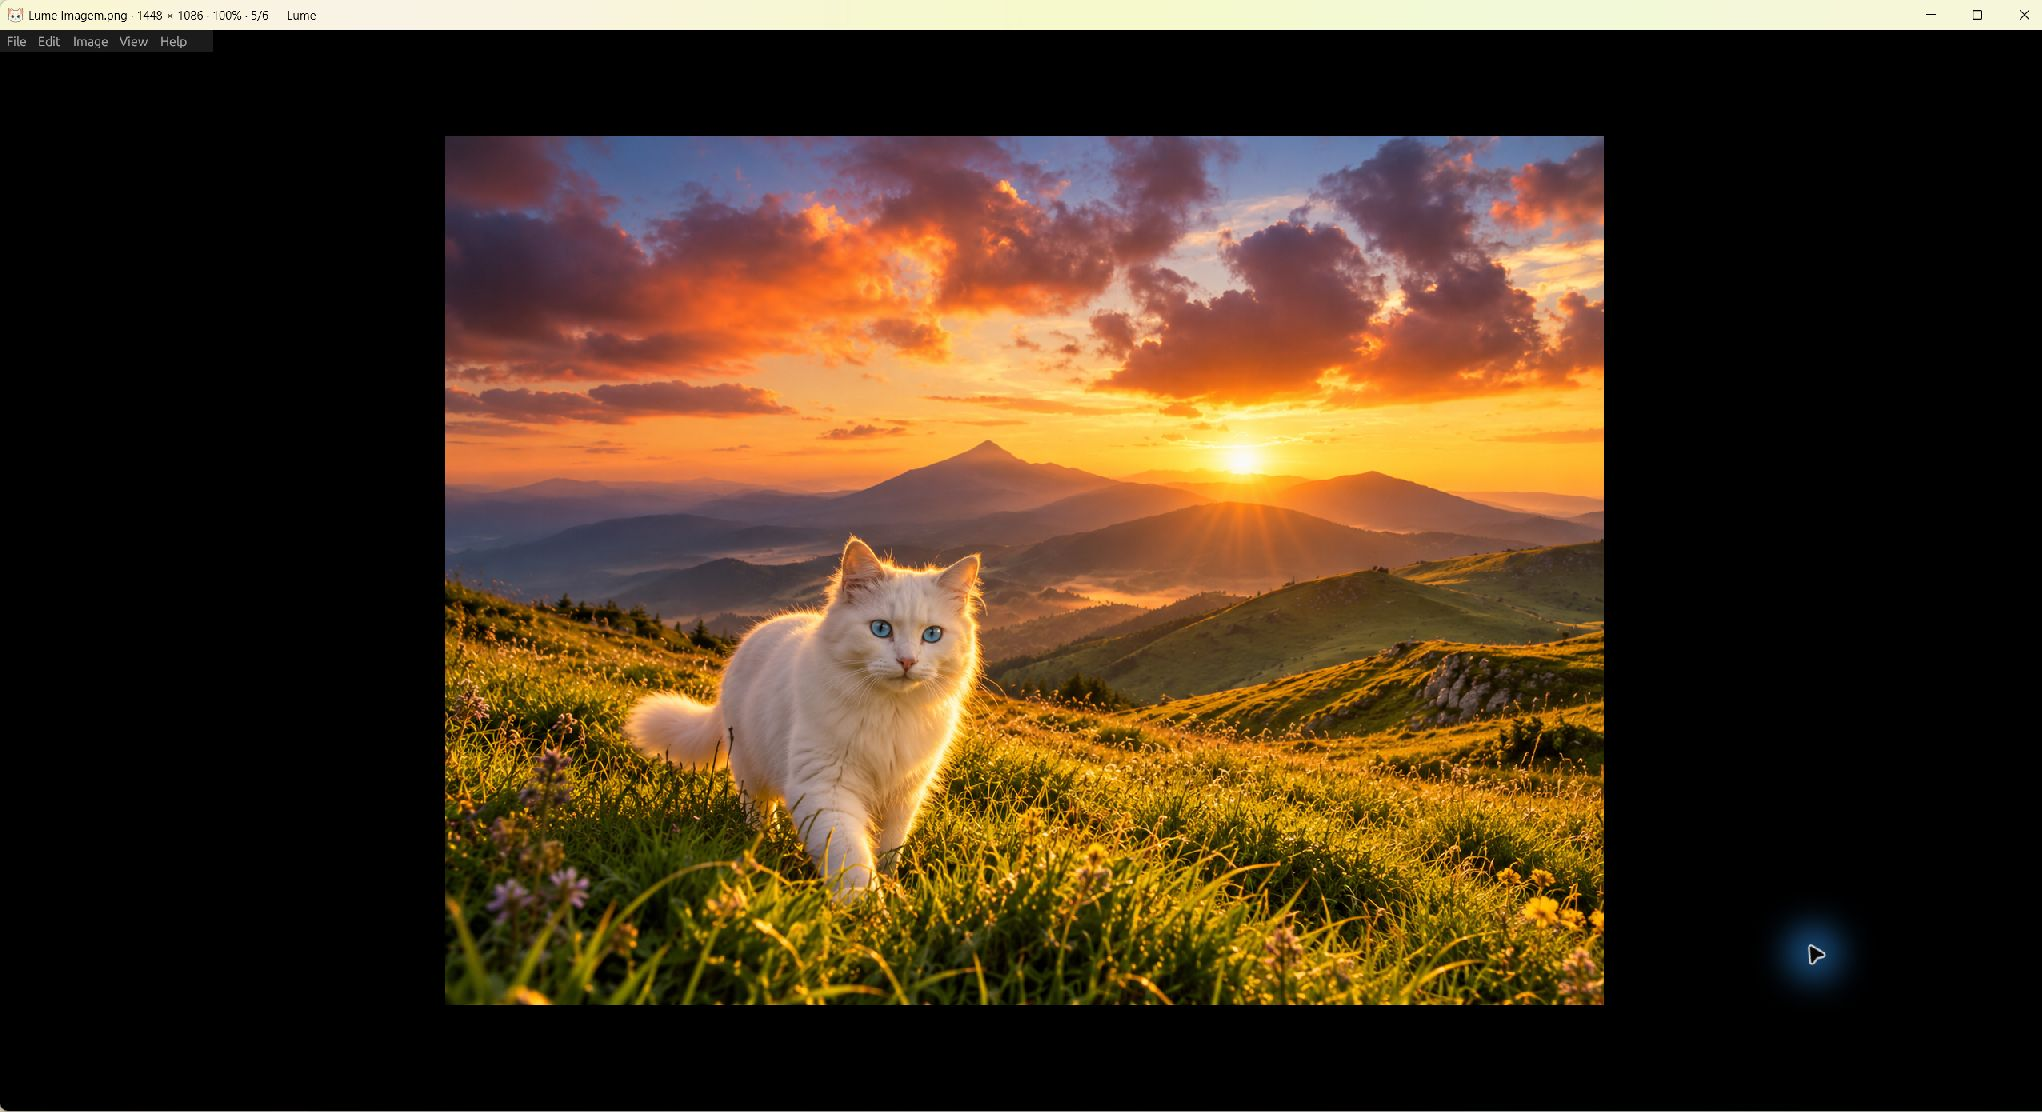
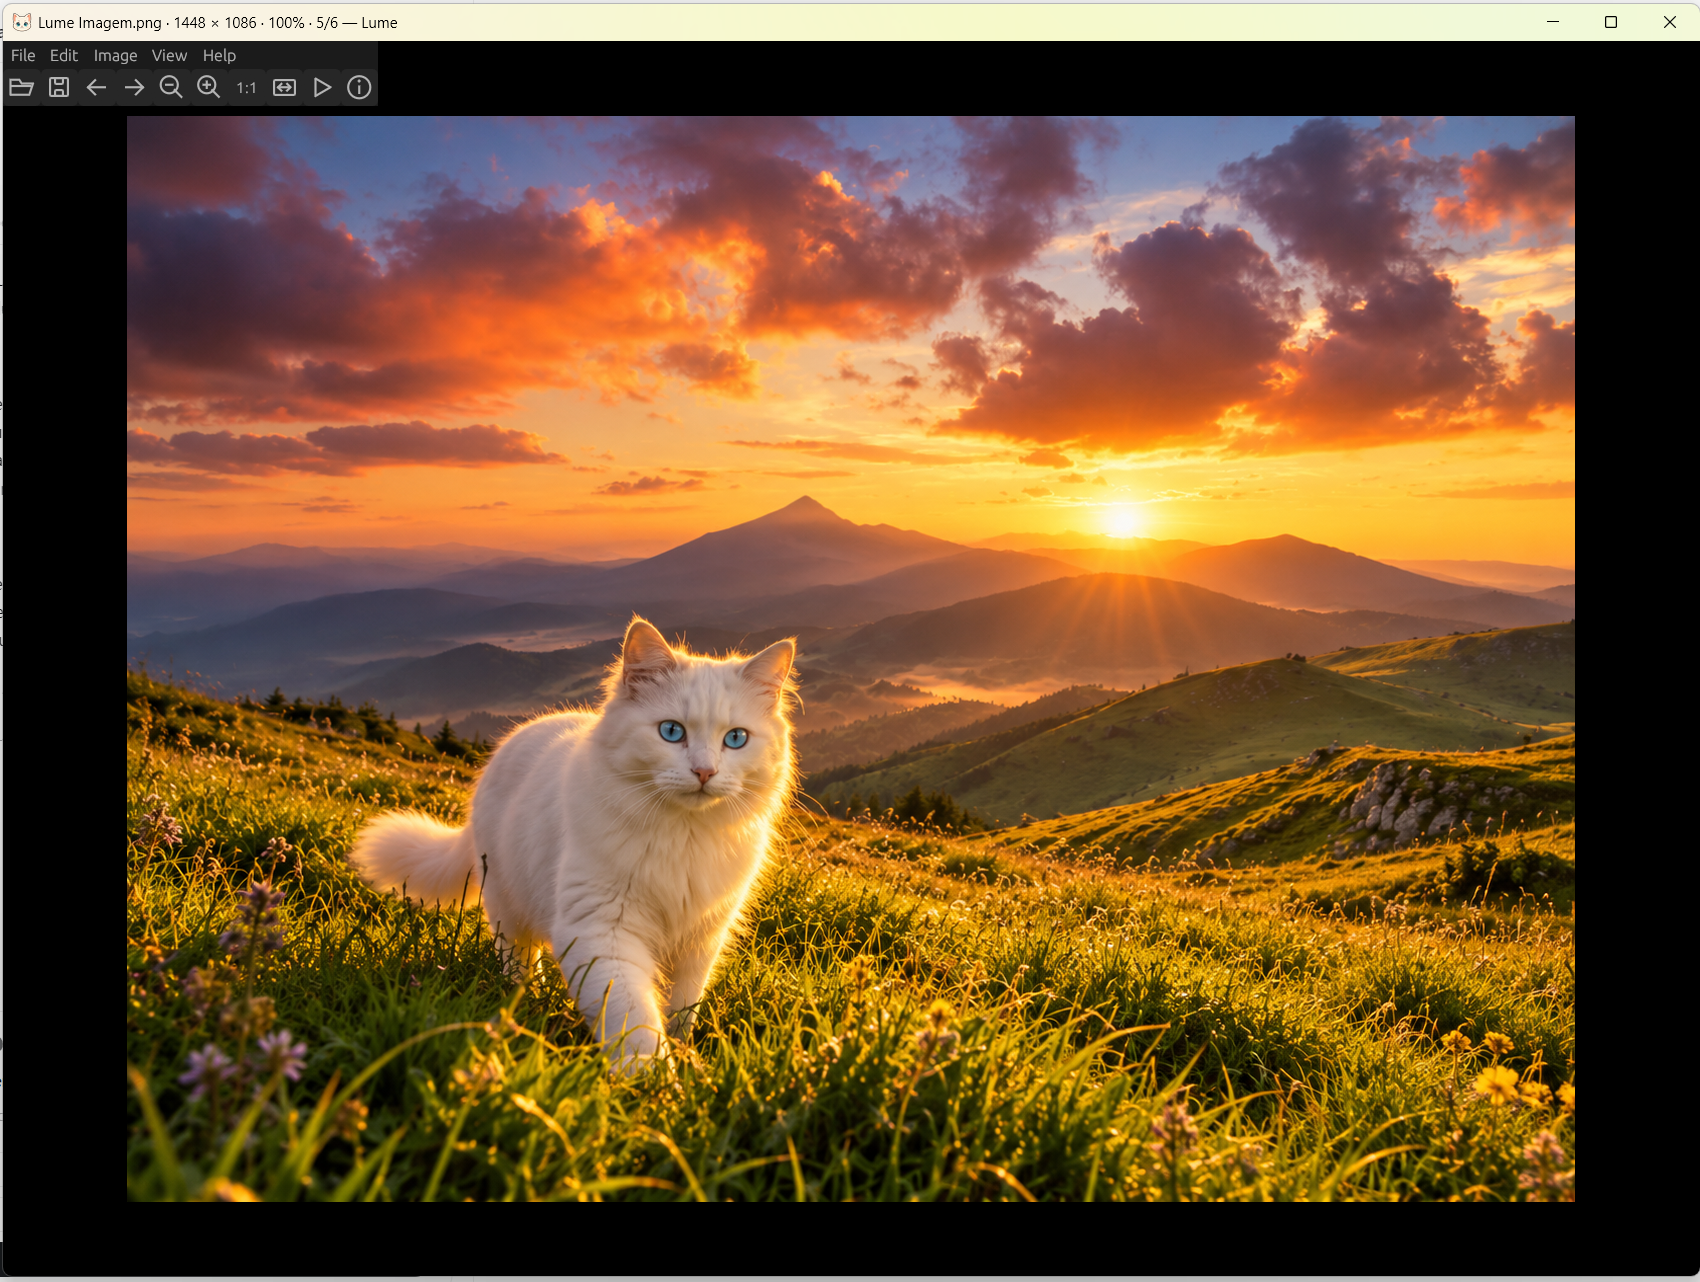
Release 0.26: default toolbar, native Windows printing and updated screenshot

diff --git a/src/main.rs b/src/main.rs
@@ -93,7 +93,7 @@ impl Default for Settings {
             webp_quality: 80,
             ratio: 3,
             slide_seconds: 4.0,
-            show_toolbar: false,
+            show_toolbar: true,
             show_status_bar: false,
             auto_restart: false,
             menu_transparency: 0,
@@ -153,6 +153,7 @@ enum Dialog {
 enum Message {
     Book(backend::Result<Arc<comic::Book>>),
     Export(backend::Result<()>),
+    Print(backend::Result<tempfile::TempPath>),
     Saved(PathBuf, backend::Result<()>),
     Information(backend::Result<Vec<(String, String)>>),
     Lossless(backend::Result<PathBuf>),
@@ -162,6 +163,7 @@ enum Message {
 }
 
 struct App {
+    print_snapshots: Vec<tempfile::TempPath>,
     pixel_ratio: f32,
     tiles: tiles::Renderer,
     settings: Settings,
@@ -233,6 +235,7 @@ impl App {
         });
         let (tx, rx) = mpsc::channel();
         let mut app = Self {
+            print_snapshots: Vec::new(),
             pixel_ratio: cc.egui_ctx.pixels_per_point(),
             tiles: tiles::Renderer::default(),
             fit: settings.fit,
@@ -544,6 +547,15 @@ impl App {
                         Err(e) => self.fail(e),
                     }
                 }
+                Message::Print(result) => match result {
+                    Ok(snapshot) => {
+                        if let Err(e) = backend::open_print_dialog(&snapshot) {
+                            self.fail(e);
+                        }
+                        self.print_snapshots.push(snapshot);
+                    }
+                    Err(e) => self.fail(e),
+                },
                 Message::Export(r) => {
                     self.busy = false;
                     match r {
@@ -622,6 +634,18 @@ impl App {
         self.index = model::next_index(self.index, delta, self.files.len());
         self.request_load(self.files[self.index].clone());
         self.last_slide = Instant::now();
+    }
+    fn print_image(&mut self, ctx: &egui::Context) {
+        let Some(pixels) = self.image.clone() else {
+            return;
+        };
+        let tx = self.tx.clone();
+        let ctx = ctx.clone();
+        std::thread::spawn(move || {
+            let result = backend::print_image(&pixels);
+            let _ = tx.send(Message::Print(result));
+            ctx.request_repaint();
+        });
     }
     fn choose_open(&mut self) {
         if let Some(p) = rfd::FileDialog::new()
@@ -1310,6 +1334,7 @@ impl App {
                 }
                 match key {
                     Key::O => self.choose_open(),
+                    Key::P if cfg!(windows) => self.print_image(ctx),
                     Key::A => {
                         let (w, h) = self.dimensions();
                         if self.selection == Some(Crop { x: 0, y: 0, w, h }) {
@@ -1531,6 +1556,18 @@ impl App {
                                 }
                                 if item(ui, "Salvar imagem", "Ctrl+S") {
                                     self.save_original();
+                                }
+                                if cfg!(windows)
+                                    && ui
+                                        .add_enabled(
+                                            self.image.is_some(),
+                                            egui::Button::new(t("Imprimir"))
+                                                .shortcut_text("Ctrl+P"),
+                                        )
+                                        .clicked()
+                                {
+                                    ui.close_menu();
+                                    self.print_image(ctx);
                                 }
                                 if item(ui, "Renomear", "F2") {
                                     if let Some(p) = &self.path {
@@ -2380,7 +2417,7 @@ impl App {
                             ("+ ou = / −","Ampliar / reduzir"),("1–7","Modos de ajuste, conforme menu Exibir"),("Enter / F","Tela cheia / janela"),("T","Mostrar / ocultar título da arte (tela cheia)"),
                             ("Esc","Cancelar seleção, sair da tela cheia ou fechar"),("F2 / F6","Renomear, incluindo extensão"),("F5 / U","Recarregar imagem e pasta"),
                             ("F7 / F8","Mover / copiar arquivo"),("Del / Shift+Del","Lixeira / exclusão permanente, com confirmação"),("F11","Ocultar / mostrar cursor em tela cheia"),
-                            ("I","Informações da imagem"),("P","Preferências"),("S","Exportar JPEG / WebP"),("Ctrl+O","Abrir imagem"),("Ctrl+S","Salvar imagem"),("Ctrl+Shift+S","Exportar WebP"),("Ctrl+A","Selecionar / desselecionar tudo"),
+                            ("I","Informações da imagem"),("P","Preferências"),("S","Exportar JPEG / WebP"),("Ctrl+P","Imprimir"),("Ctrl+O","Abrir imagem"),("Ctrl+S","Salvar imagem"),("Ctrl+Shift+S","Exportar WebP"),("Ctrl+A","Selecionar / desselecionar tudo"),
                             ("Ctrl+Y","Aplicar recorte selecionado"),("Ctrl+Shift+L","Iniciar recorte JPEG sem perdas"),("Ctrl + setas","Redimensionar seleção proporcionalmente"),
                             ("Shift + setas","Mover seleção em passos maiores"),("Alt + setas","Alterar largura / altura da seleção"),
                             ("Ctrl+Z / Ctrl+J","Desfazer / refazer edições"),("Ctrl+C / Ctrl+Insert","Copiar imagem ou seleção"),("Ctrl+V","Colar como nova imagem"),

diff --git a/src/backend.rs b/src/backend.rs
@@ -714,3 +714,54 @@ mod tests {
         assert_eq!(std::fs::read(&p).unwrap(), b"external change");
     }
 }
+
+/// Prepare a print snapshot; retain ownership while the system dialog is open.
+pub fn print_image(pixels: &RgbaImage) -> Result<tempfile::TempPath> {
+    let snapshot = tempfile::Builder::new()
+        .prefix("lume-print-")
+        .suffix(".png")
+        .tempfile()
+        .map_err(|e| e.to_string())?;
+    pixels
+        .save_with_format(snapshot.path(), image::ImageFormat::Png)
+        .map_err(|e| e.to_string())?;
+    Ok(snapshot.into_temp_path())
+}
+
+pub fn open_print_dialog(path: &Path) -> Result<()> {
+    #[cfg(windows)]
+    {
+        use std::os::windows::ffi::OsStrExt;
+        use windows_sys::Win32::{
+            System::Com::{CoInitializeEx, COINIT_APARTMENTTHREADED},
+            UI::Shell::ShellExecuteW,
+        };
+        static INIT: std::sync::Once = std::sync::Once::new();
+        INIT.call_once(|| unsafe {
+            CoInitializeEx(std::ptr::null(), COINIT_APARTMENTTHREADED as u32);
+        });
+        let verb: Vec<u16> = "print".encode_utf16().chain(Some(0)).collect();
+        let file: Vec<u16> = path.as_os_str().encode_wide().chain(Some(0)).collect();
+        let result = unsafe {
+            ShellExecuteW(
+                std::ptr::null_mut(),
+                verb.as_ptr(),
+                file.as_ptr(),
+                std::ptr::null(),
+                std::ptr::null(),
+                1,
+            )
+        } as isize;
+        if result <= 32 {
+            return Err(format!(
+                "Windows could not open the image print dialog (error {result})."
+            ));
+        }
+        Ok(())
+    }
+    #[cfg(not(windows))]
+    {
+        let _ = path;
+        Err("Printing is available only on Windows.".into())
+    }
+}

diff --git a/src/i18n.rs b/src/i18n.rs
@@ -217,6 +217,7 @@ pub fn t(text: &str) -> String {
         ("Proporção largura : altura", "Width : height ratio"),
         ("Inverter", "Swap"),
         ("Cor neon", "Neon color"),
+        ("Imprimir", "Print"),
         ("Recortar", "Select area"),
         ("Recortar sem perdas", "Lossless crop"),
         ("Copiar", "Copy"),

diff --git a/README.md b/README.md
@@ -1,6 +1,6 @@
 # Lume
 
-A minimalist image viewer written in Rust, inspired by IrfanView. Lume focuses on fast folder navigation and simple image cropping for wallpapers, with support for reading and copying AI generation metadata.
+A minimalist image viewer written in Rust, inspired by IrfanView. Lume focuses on fast folder navigation and simple image cropping for wallpapers, with support for JPEG, PNG, WebP, AVIF, GIF, BMP, TIFF, HEIC, ICO and CBZ comics.
 
 ![Lume with its default interface](docs/screenshot.png)
 
@@ -11,12 +11,13 @@ Download **Lume-Setup.exe** from the [latest release](https://github.com/flavw/L
 ## Features
 
 - Fast native decoding of JPEG, PNG and WebP, asynchronous loading and a bounded image cache.
-- Minimal text menus; optional toolbar and status bar.
+- Minimal text menus; toolbar enabled by default and optional status bar.
 - Original-size viewing, seven zoom modes, fullscreen and slideshow.
 - Wallpaper crops: Free, 1:1, 16:9, 9:16, 10:16, 8:16, original and custom aspect ratios; rule-of-thirds grid and resizable handles.
 - Lossless JPEG cropping and rotation through jpegtran. Numbered copies preserve the source; imperfect rotations are rejected.
 - JPEG and WebP export at quality 80 by default, configurable quality, and lossless PNG export.
 - AI generation metadata inspection and copying, including supported Stable Diffusion parameters and ComfyUI JSON stored in PNG, JPEG and WebP metadata.
+- AI metadata reading and copying, plus the standard Windows Print Pictures dialog for the displayed image.
 - Image information, clipboard images, rename with separate extension field, file copying/moving and deletion confirmation.
 - CBZ comic reading, basic image adjustments, undo/redo and unsaved-change confirmation.
 - Dark, light, system and customizable neon themes; English and Portuguese interfaces.
@@ -34,6 +35,7 @@ Download **Lume-Setup.exe** from the [latest release](https://github.com/flavw/L
 | P | Preferences |
 | F2 | Rename |
 | Ctrl+S | Save dialog |
+| Ctrl+P | Windows Print Pictures |
 | S | Export JPEG |
 | Ctrl+Y | Apply the crop |
 | Delete / Shift+Delete | Recycle / permanently delete, with confirmation |
